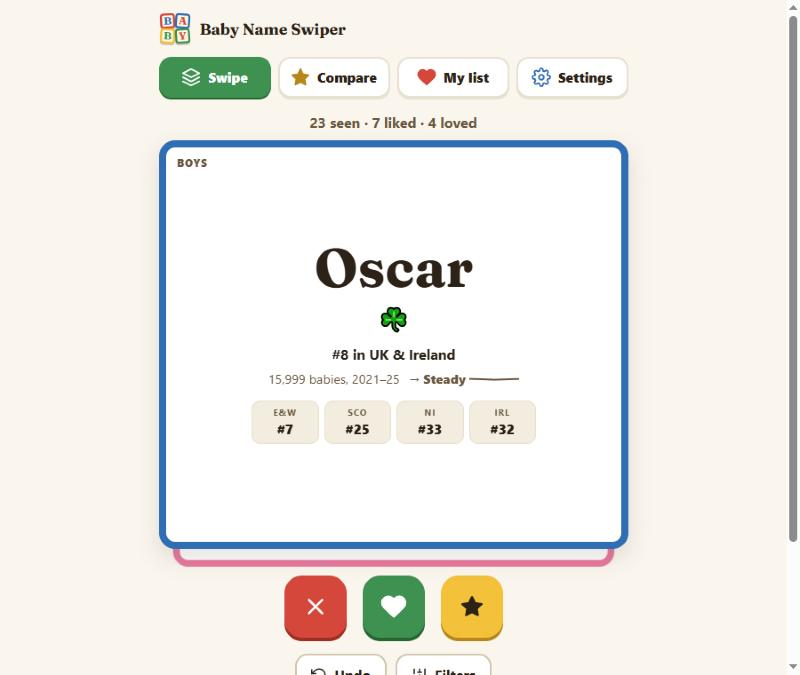
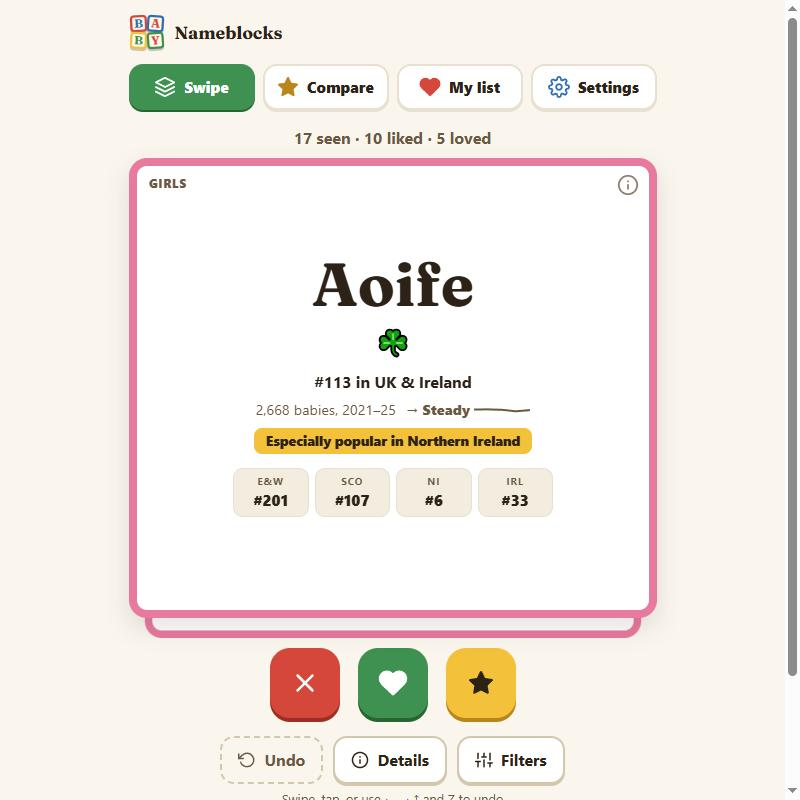
Retake README screenshots with the Nameblocks name

Changed region(s): [[0.1562, 0.0, 0.8438, 1.0], [0.2812, 0.3111, 0.7188, 0.6844], [0.9688, 0.7778, 1.0, 0.84]]

diff --git a/README.md b/README.md
@@ -22,13 +22,13 @@
 </p>
 
 <p align="center">
-  <img src="docs/screenshots/welcome.jpg" alt="Welcome screen with resume panel and filters" width="190">
+  <img src="docs/screenshots/welcome.jpg?v=3" alt="Welcome screen with resume panel and filters" width="190">
   &nbsp;
-  <img src="docs/screenshots/swipe.jpg" alt="Swipe card for the name Aoife with rank, trend and country ranks" width="190">
+  <img src="docs/screenshots/swipe.jpg?v=3" alt="Swipe card for the name Aoife with rank, trend and country ranks" width="190">
   &nbsp;
-  <img src="docs/screenshots/compare.jpg?v=2" alt="Head-to-head comparison of two names" width="190">
+  <img src="docs/screenshots/compare.jpg?v=3" alt="Head-to-head comparison of two names" width="190">
   &nbsp;
-  <img src="docs/screenshots/ranked.jpg?v=2" alt="Ranked list with ratings" width="190">
+  <img src="docs/screenshots/ranked.jpg?v=3" alt="Ranked list with ratings" width="190">
 </p>
 <p align="center">
   <sub>Welcome &middot; Swipe &middot; Compare &middot; Ranked</sub>
@@ -64,9 +64,9 @@ flowchart LR
 - **Accessible.** Buttons for every gesture, ARIA labels, a live region announcing decisions, `prefers-reduced-motion` and dark mode.
 
 <p align="center">
-  <img src="docs/screenshots/swipe-dark.jpg" alt="Swipe card in dark mode" width="190">
+  <img src="docs/screenshots/swipe-dark.jpg?v=3" alt="Swipe card in dark mode" width="190">
   &nbsp;&nbsp;
-  <img src="docs/screenshots/desktop.jpg" alt="Desktop layout with tabs aligned to the content column" width="420">
+  <img src="docs/screenshots/desktop.jpg?v=3" alt="Desktop layout with tabs aligned to the content column" width="420">
 </p>
 <p align="center">
   <sub>Dark mode &middot; Desktop (tabs line up with the content column)</sub>
